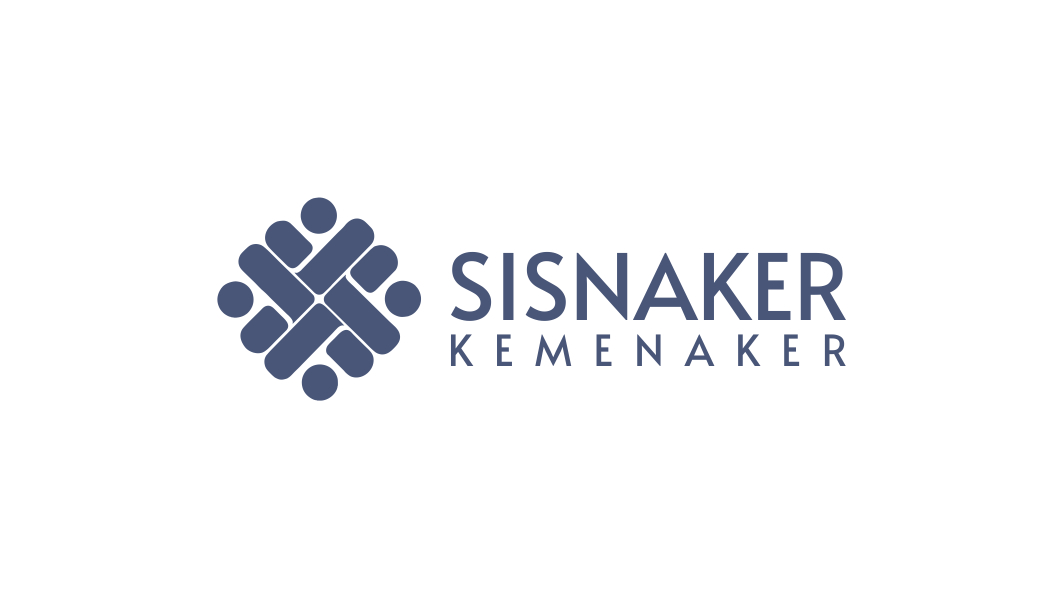
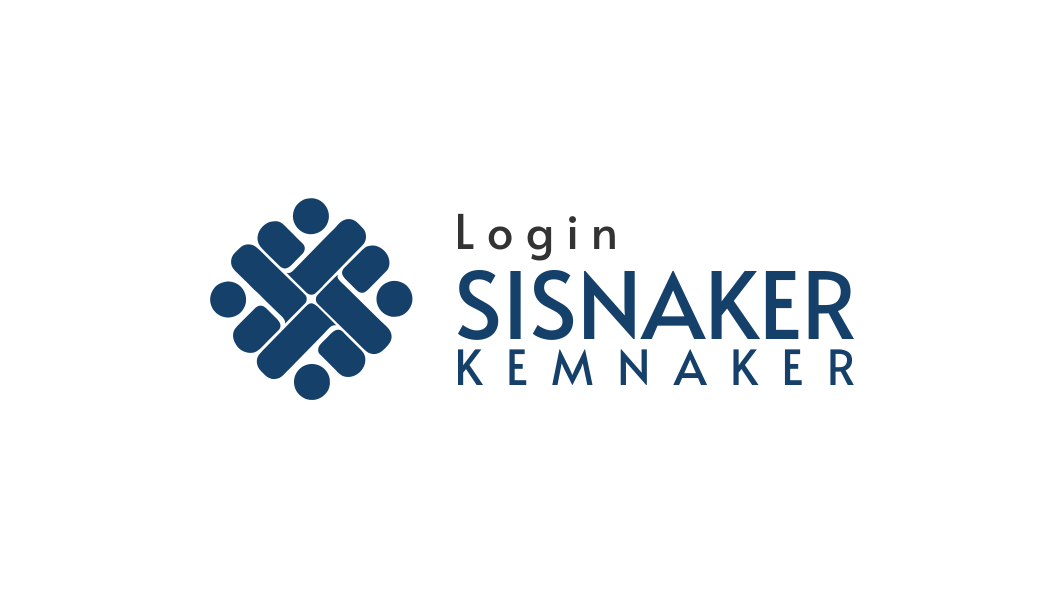
perbaikan bug

Changed region(s): [[0.1863, 0.3311, 0.8071, 0.6923]]

diff --git a/application/views/home.php b/application/views/home.php
@@ -189,7 +189,7 @@
         <a href="https://sicantikui.layanan.go.id" class="pilih-pelayanan"><img id="img-layanan" class="mb-2 img-layanan" src="<?= base_url(); ?>assets/img/sicantikcloud.jpg" alt="gambarsicantikcloud" width="100%"> SiCantik</a>
       </div>
       <div class="col col-sm-12 col-md-4 col-lg-6 col-6 display-4 mb-3">
-        <a href="" class="pilih-pelayanan" data-toggle="modal" data-target="#ModalTracking"><img id="img-layanan" class="mb-2 img-layanan" src="<?= base_url(); ?>assets/img/trackingsicantik.jpg" alt="gambarsicantikcloud" width="100%"> Tracking SiCantik</a>
+        <a href="" class="pilih-pelayanan" data-toggle="modal" data-target="#ModalTracking"><img id="img-layanan" class="mb-2 img-layanan" src="<?= base_url(); ?>assets/img/trackingsicantik.jpg" alt="gambarsicantikcloud" width="100%"> SISNAKER KEMNAKER</a>
       </div>
     </div>
   </div>
